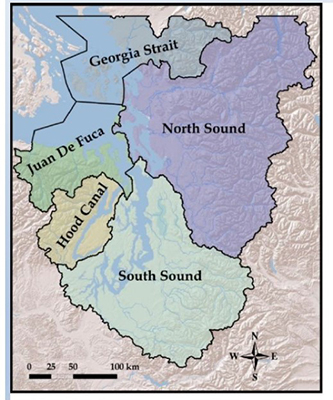
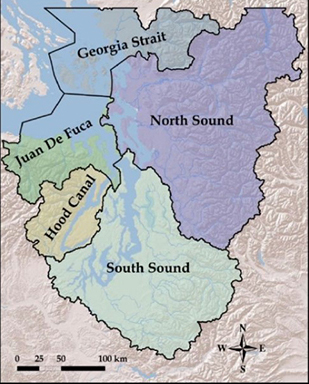
Revised image on PSPNC page

diff --git a/pspnc.php b/pspnc.php
@@ -88,7 +88,7 @@
 
 <p>One of the other advantages of this approach is that it provides a method for restoration work to happen close to the permit site. Creosote-soaked piers and pilings are widespread throughout Puget Sound, so the conservation projects funded by the sale of credits through the PSPNC program will be located in the same area as the permitted project. 
 </p>
-			<img class="img-responsive" src="images/service-areas.jpg" width="333" height="400" alt="Graphic of service areas within Puget Sound"/>
+			<figure><img class="img-responsive" src="images/service-areas.jpg" width="309" height="384" alt="Graphic of service areas within Puget Sound"/><figcaption>Permitted nearshore work will be offset with conservation projects in the same service area. Graphic from Beechie et al., 2017, pg. 13.</figcaption></figure>
 			
 		<h2>The PSPNC provides conservation credits for obligations under Endangered Species Act Section 7 consultations</h2>
 			<p>The Puget Sound Partnership provides conservation credits for obligations under Endangered Species Act (ESA) Section 7 consultations. If other federal, local, or state agencies also require mitigation, and that mitigation was not already included in the conservation calculator, it is the applicant's responsibility to clarify with those agencies whether the conservation credits provided by the Puget Sound Partnership would meet those obligations. For example, Puget Sound Partnership Nearshore Credits may not be used to satisfy compensatory mitigation obligations under Section 404 of the Clean Water Act.</p>
